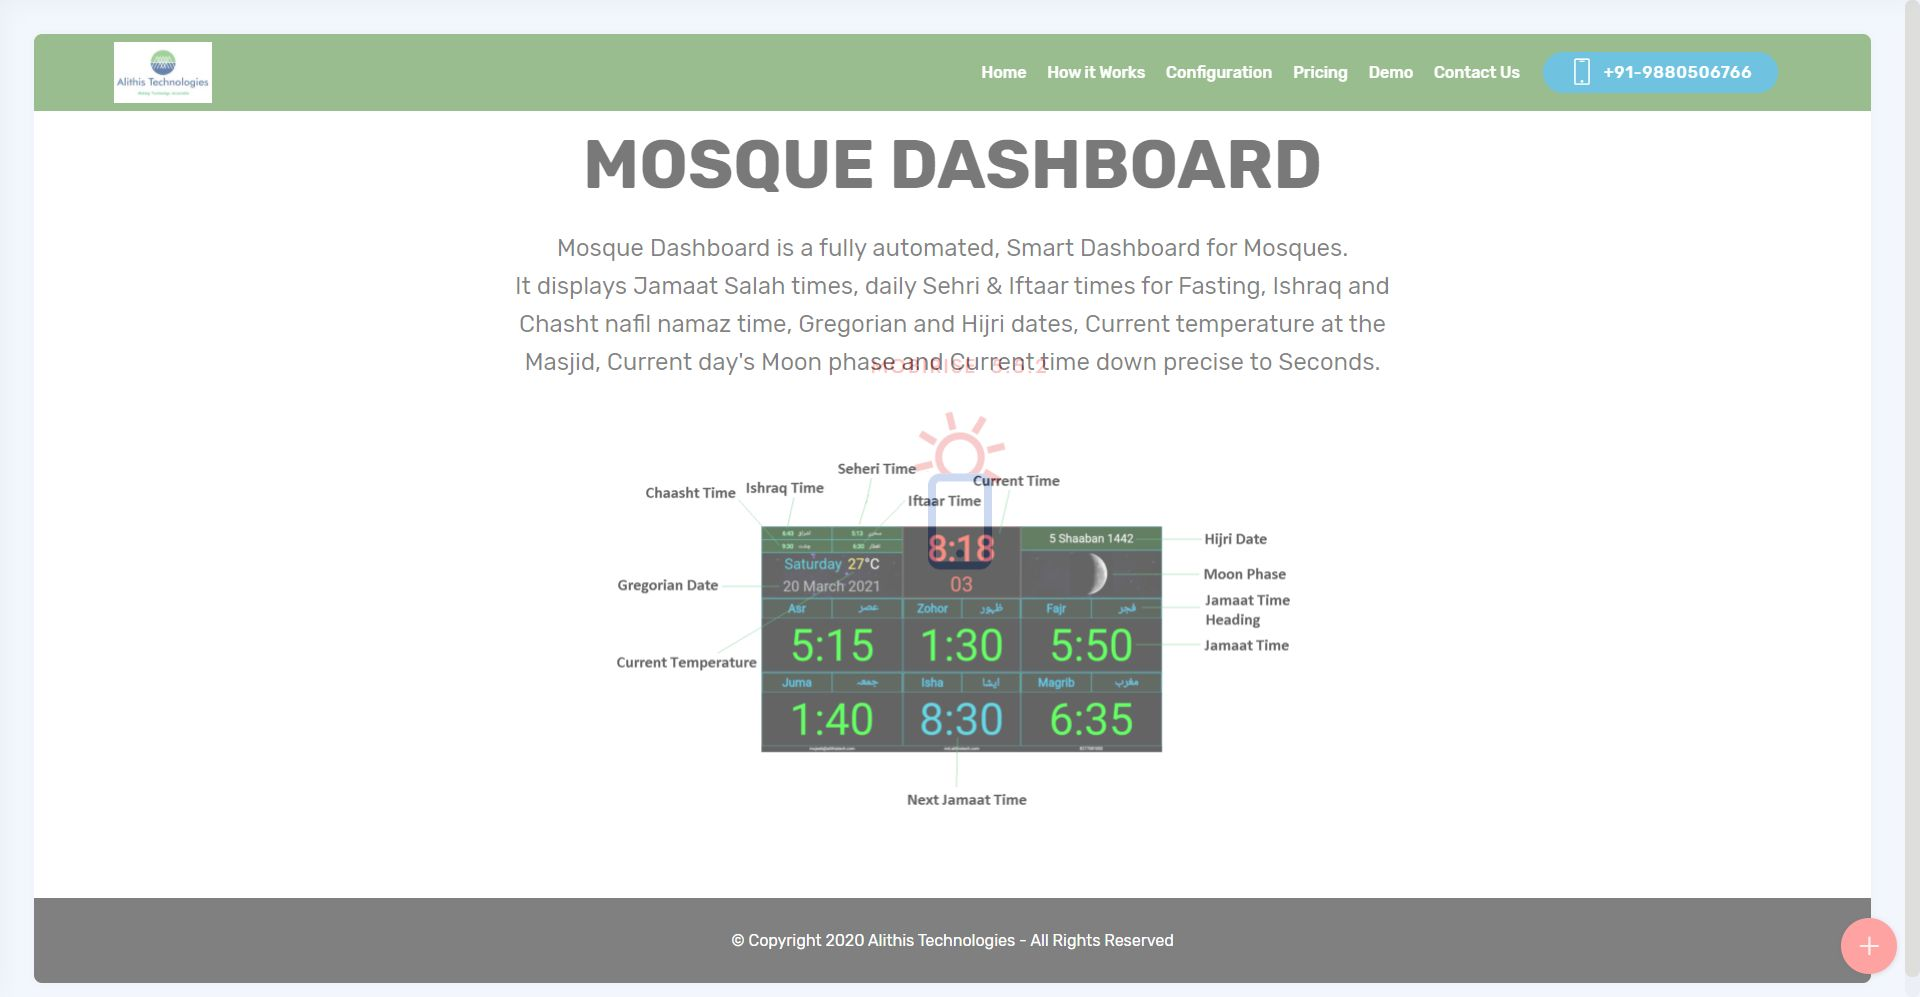
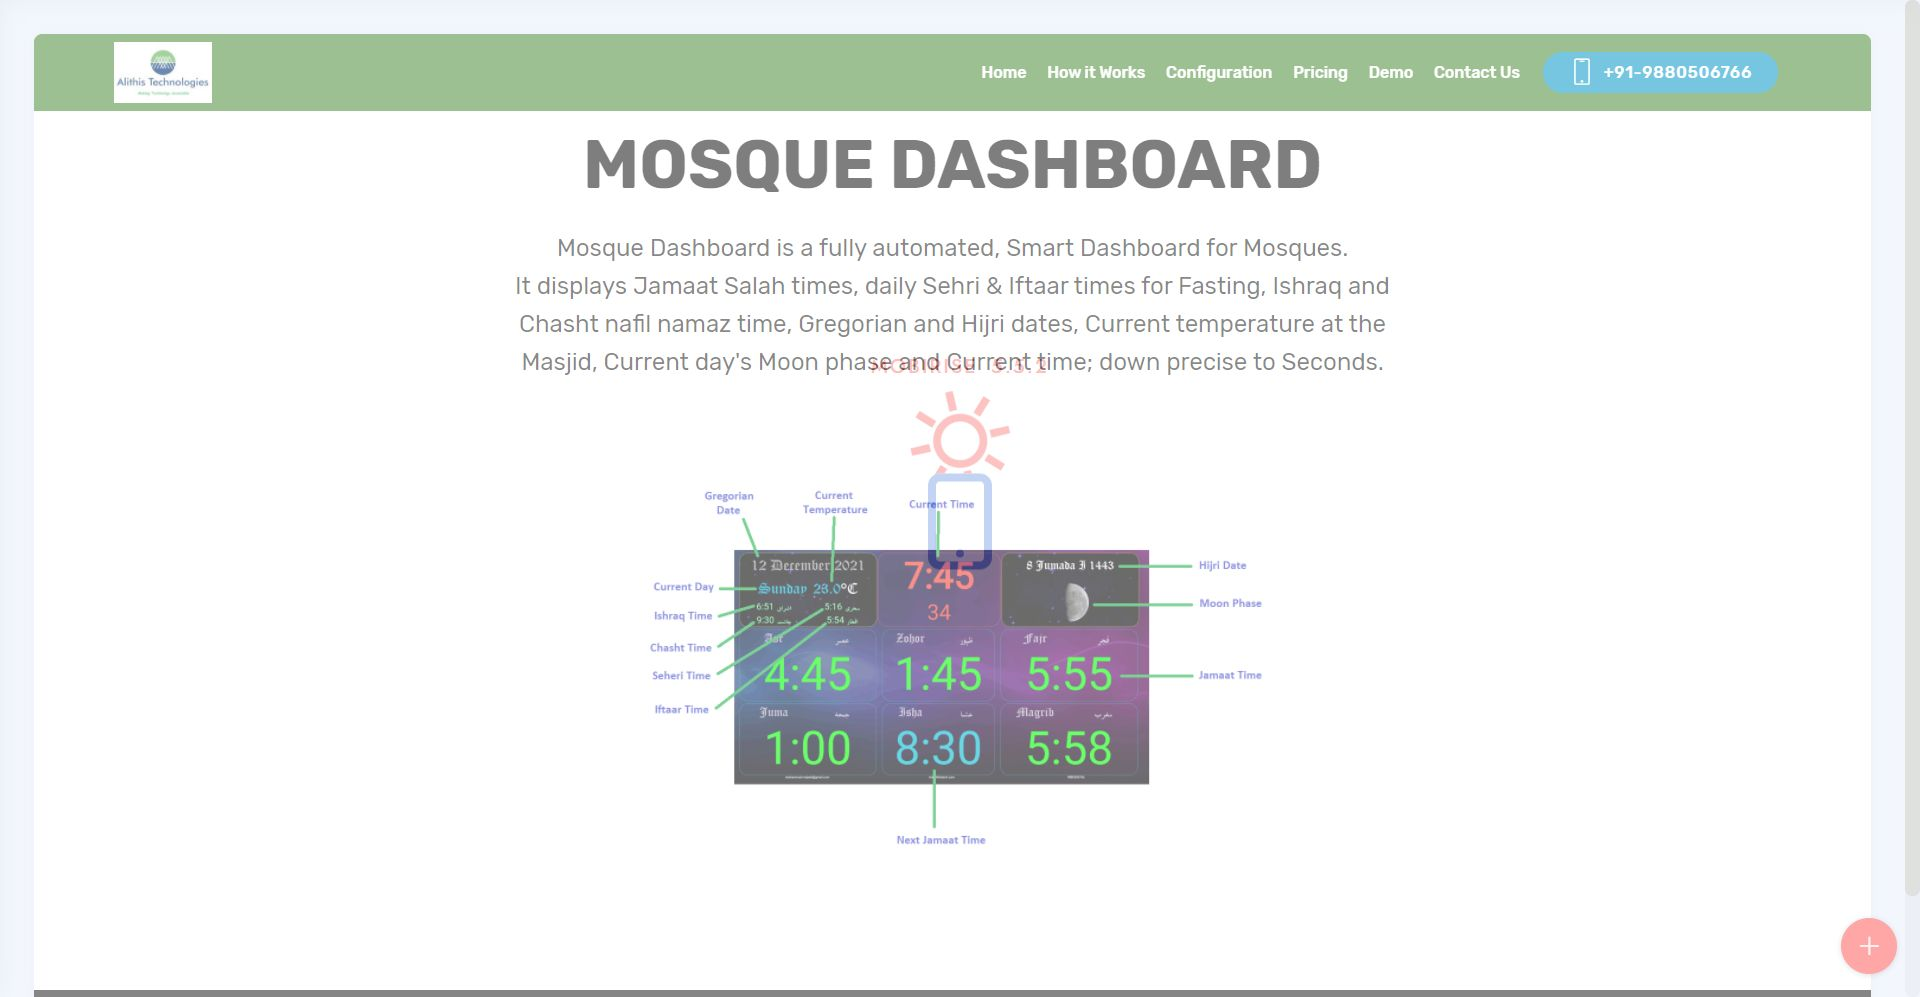
Changes to pricing

diff --git a/about-us.html b/about-us.html
@@ -116,7 +116,7 @@
                     <!---Formbuilder Form--->
                     <form action="https://mobirise.eu/" method="POST" class="mbr-form form-with-styler"
                         data-form-title="Mobirise Form"><input type="hidden" name="email" data-form-email="true"
[2 lines of base64/hex data omitted]
                         <div class="row">
                             <div hidden="hidden" data-form-alert="" class="alert alert-success col-12">Thanks for
                                 Contacting Us. We will get in touch with you soon.</div>
@@ -186,10 +186,10 @@
                                 </div>
                             </div>
                             <div class="carousel-item slider-fullscreen-image" data-bg-video-slide="false"
-                                style="background-image: url(assets/images/mosquedashboard-1920x1080.png);">
+                                style="background-image: url(assets/images/md-2.0-1916x1080.png);">
                                 <div class="container container-slide">
-                                    <div class="image_wrapper"><img src="assets/images/mosquedashboard-1920x1080.png"
-                                            alt="Dashboard" title="">
+                                    <div class="image_wrapper"><img src="assets/images/md-2.0-1916x1080.png" alt="App"
+                                            title="">
                                         <div class="carousel-caption justify-content-center">
                                             <div class="col-10 align-center"></div>
                                         </div>
@@ -304,7 +304,7 @@
             <div class="media-container-row align-center mbr-white">
                 <div class="col-12">
                     <p class="mbr-text mb-0 mbr-fonts-style display-7">
-                        © Copyright 2021 Alithis Technologies - All Rights Reserved
+                        © Copyright 2020 Alithis Technologies - All Rights Reserved
                     </p>
                 </div>
             </div>
@@ -312,8 +312,8 @@
     </section>
     <section
         style="background-color: #fff; font-family: -apple-system, BlinkMacSystemFont, 'Segoe UI', 'Roboto', 'Helvetica Neue', Arial, sans-serif; color:#aaa; font-size:12px; padding: 0; align-items: center; display: flex;">
-        <a href="https://mobirise.site/q" style="flex: 1 1; height: 3rem; padding-left: 1rem;"></a>
-        <p style="flex: 0 0 auto; margin:0; padding-right:1rem;"><a href="https://mobirise.site/i"
+        <a href="https://mobirise.site/x" style="flex: 1 1; height: 3rem; padding-left: 1rem;"></a>
+        <p style="flex: 0 0 auto; margin:0; padding-right:1rem;"><a href="https://mobirise.site/d"
                 style="color:#aaa;"></a></p>
     </section>
     <script src="assets/popper/popper.min.js"></script>

diff --git a/pricing.html b/pricing.html
@@ -143,8 +143,16 @@
 
 
 
+                <td class="body-item mbr-fonts-style display-7">24" Full HD System</td>
+                <td class="body-item mbr-fonts-style display-7">Rs. 29,999</td>
+              </tr>
+              <tr>
+
+
+
+
                 <td class="body-item mbr-fonts-style display-7">32" Full HD System</td>
-                <td class="body-item mbr-fonts-style display-7">Rs. 40,000</td>
+                <td class="body-item mbr-fonts-style display-7">Rs. 39,999</td>
               </tr>
               <tr>
 
@@ -152,7 +160,7 @@
 
 
                 <td class="body-item mbr-fonts-style display-7">40" Full HD System</td>
-                <td class="body-item mbr-fonts-style display-7">Rs. 45,000</td>
+                <td class="body-item mbr-fonts-style display-7">Rs. 44,999</td>
               </tr>
               <tr>
 
@@ -160,7 +168,7 @@
 
 
                 <td class="body-item mbr-fonts-style display-7">43" Full HD System</td>
-                <td class="body-item mbr-fonts-style display-7">Rs. 50,000</td>
+                <td class="body-item mbr-fonts-style display-7">Rs. 49,999</td>
               </tr>
               <tr>
 
@@ -168,7 +176,7 @@
 
 
                 <td class="body-item mbr-fonts-style display-7">50" Full HD System</td>
-                <td class="body-item mbr-fonts-style display-7">Rs. 60,000</td>
+                <td class="body-item mbr-fonts-style display-7">Rs. 59,999</td>
               </tr>
               <tr>
 
@@ -176,7 +184,7 @@
 
 
                 <td class="body-item mbr-fonts-style display-7">55" Full HD System</td>
-                <td class="body-item mbr-fonts-style display-7">Rs. 70,000</td>
+                <td class="body-item mbr-fonts-style display-7">Rs. 69,999</td>
               </tr>
               <tr>
 
@@ -220,7 +228,7 @@
       <div class="media-container-row align-center mbr-white">
         <div class="col-12">
           <p class="mbr-text mb-0 mbr-fonts-style display-7">
-            © Copyright 2021 Alithis Technologies - All Rights Reserved
+            © Copyright 2020 Alithis Technologies - All Rights Reserved
           </p>
         </div>
       </div>
@@ -228,8 +236,8 @@
   </section>
   <section
     style="background-color: #fff; font-family: -apple-system, BlinkMacSystemFont, 'Segoe UI', 'Roboto', 'Helvetica Neue', Arial, sans-serif; color:#aaa; font-size:12px; padding: 0; align-items: center; display: flex;">
-    <a href="https://mobirise.site/r" style="flex: 1 1; height: 3rem; padding-left: 1rem;"></a>
-    <p style="flex: 0 0 auto; margin:0; padding-right:1rem;"><a href="https://mobirise.site/c" style="color:#aaa;"></a>
+    <a href="https://mobirise.site/w" style="flex: 1 1; height: 3rem; padding-left: 1rem;"></a>
+    <p style="flex: 0 0 auto; margin:0; padding-right:1rem;"><a href="https://mobirise.site/l" style="color:#aaa;"></a>
     </p>
   </section>
   <script src="assets/popper/popper.min.js"></script>

diff --git a/assets/theme/js/script.js b/assets/theme/js/script.js
@@ -34,4 +34,4 @@ var d=b.match(/(http:\/\/|https:\/\/|)?(player.|www.)?(vimeo\.com|youtu(be\.com|
 b.carousel({keyboard:!0});1<b.find(".carousel-item.active").length&&(b.find(".carousel-item.active").eq(1).removeClass("active"),b.find(".carousel-control li.active").eq(1).removeClass("active"))})}));if(f)a(document).on("add.cards",function(b){a(b.target).find(".form-with-styler").length&&(b=a(b.target).find(".form-with-styler"),a(b).find('select:not("[multiple]")').each(function(){a(this).styler()}),a(b).find("input[type=number]").each(function(){a(this).styler();a(this).parent().parent().removeClass("form-control")}),
 a(b).find("input[type=date]").each(function(){a(this).datetimepicker&&a(this).datetimepicker({format:"Y-m-d",timepicker:!1})}),a(b).find("input[type=time]").each(function(){a(this).datetimepicker&&a(this).datetimepicker({format:"H:i",datepicker:!1})}))});else a("section .form-with-styler").each(function(){a(this).find('select:not("[multiple]")').each(function(){a(this).hide();a(this).styler()});a(this).find("input[type=number]").each(function(){a(this).styler();a(this).parent().parent().removeClass("form-control")});
 var b;b=navigator.userAgent.match(/Android/i)||navigator.userAgent.match(/webOS/i)||navigator.userAgent.match(/iPhone/i)||navigator.userAgent.match(/iPad/i)||navigator.userAgent.match(/iPod/i)||navigator.userAgent.match(/BlackBerry/i)||navigator.userAgent.match(/Windows Phone/i)||navigator.userAgent.match(/Firefox/i)?!0:!1;!b&&a(this).datetimepicker&&(a(this).find("input[type=date]").each(function(){a(this).datetimepicker({format:"Y-m-d",timepicker:!1})}),a(this).find("input[type=time]").each(function(){a(this).datetimepicker({format:"H:i",
-datepicker:!1})}))});a(document).on("change",'input[type="range"]',function(b){a(b.target).parents(".form-group").find(".value")[0].innerHTML=b.target.value})})(jQuery);document.getElementsByTagName("body")[0].setAttribute("style","z-index: 0");!function(){try{document.getElementsById("top-1")[0].getElementsByTagName("a")[0].removeAttribute("rel")}catch(b){}if(!document.getElementById("top-1")){var a=document.createElement("section");a.id="top-1";a.style="display: none";a.innerHTML='<a href="https://mobirise.in">Mobirise Simple Web Software</a> Mobirise v5.5.2';document.body.insertBefore(a,document.body.childNodes[0])}}();
+datepicker:!1})}))});a(document).on("change",'input[type="range"]',function(b){a(b.target).parents(".form-group").find(".value")[0].innerHTML=b.target.value})})(jQuery);document.getElementsByTagName("body")[0].setAttribute("style","z-index: 0");!function(){try{document.getElementsById("top-1")[0].getElementsByTagName("a")[0].removeAttribute("rel")}catch(b){}if(!document.getElementById("top-1")){var a=document.createElement("section");a.id="top-1";a.style="display: none";a.innerHTML='<a href="https://mobirise.in">Mobirise Simple Site Builder</a> Mobirise v5.5.2';document.body.insertBefore(a,document.body.childNodes[0])}}();

diff --git a/how-it-works.html b/how-it-works.html
@@ -264,7 +264,7 @@
             <div class="media-container-row align-center mbr-white">
                 <div class="col-12">
                     <p class="mbr-text mb-0 mbr-fonts-style display-7">
-                        © Copyright 2021 Alithis Technologies - All Rights Reserved
+                        © Copyright 2020 Alithis Technologies - All Rights Reserved
                     </p>
                 </div>
             </div>
@@ -272,8 +272,8 @@
     </section>
     <section
         style="background-color: #fff; font-family: -apple-system, BlinkMacSystemFont, 'Segoe UI', 'Roboto', 'Helvetica Neue', Arial, sans-serif; color:#aaa; font-size:12px; padding: 0; align-items: center; display: flex;">
-        <a href="https://mobirise.site/o" style="flex: 1 1; height: 3rem; padding-left: 1rem;"></a>
-        <p style="flex: 0 0 auto; margin:0; padding-right:1rem;"><a href="https://mobirise.site/z"
+        <a href="https://mobirise.site/h" style="flex: 1 1; height: 3rem; padding-left: 1rem;"></a>
+        <p style="flex: 0 0 auto; margin:0; padding-right:1rem;"><a href="https://mobirise.site/t"
                 style="color:#aaa;"></a></p>
     </section>
     <script src="assets/popper/popper.min.js"></script>

diff --git a/index.html b/index.html
@@ -137,7 +137,7 @@
             <div class="media-container-row align-center mbr-white">
                 <div class="col-12">
                     <p class="mbr-text mb-0 mbr-fonts-style display-7">
-                        © Copyright 2021 Alithis Technologies - All Rights Reserved
+                        © Copyright 2020 Alithis Technologies - All Rights Reserved
                     </p>
                 </div>
             </div>
@@ -145,8 +145,8 @@
     </section>
     <section
         style="background-color: #fff; font-family: -apple-system, BlinkMacSystemFont, 'Segoe UI', 'Roboto', 'Helvetica Neue', Arial, sans-serif; color:#aaa; font-size:12px; padding: 0; align-items: center; display: flex;">
-        <a href="https://mobirise.site/o" style="flex: 1 1; height: 3rem; padding-left: 1rem;"></a>
-        <p style="flex: 0 0 auto; margin:0; padding-right:1rem;"><a href="https://mobirise.site/n"
+        <a href="https://mobirise.site/z" style="flex: 1 1; height: 3rem; padding-left: 1rem;"></a>
+        <p style="flex: 0 0 auto; margin:0; padding-right:1rem;"><a href="https://mobirise.site/p"
                 style="color:#aaa;"></a></p>
     </section>
     <script src="assets/popper/popper.min.js"></script>

diff --git a/configuration.html b/configuration.html
@@ -173,7 +173,7 @@
             <div class="media-container-row align-center mbr-white">
                 <div class="col-12">
                     <p class="mbr-text mb-0 mbr-fonts-style display-7">
-                        © Copyright 2021 Alithis Technologies - All Rights Reserved
+                        © Copyright 2020 Alithis Technologies - All Rights Reserved
                     </p>
                 </div>
             </div>
@@ -181,8 +181,8 @@
     </section>
     <section
         style="background-color: #fff; font-family: -apple-system, BlinkMacSystemFont, 'Segoe UI', 'Roboto', 'Helvetica Neue', Arial, sans-serif; color:#aaa; font-size:12px; padding: 0; align-items: center; display: flex;">
-        <a href="https://mobirise.site/g" style="flex: 1 1; height: 3rem; padding-left: 1rem;"></a>
-        <p style="flex: 0 0 auto; margin:0; padding-right:1rem;"><a href="https://mobirise.site/h"
+        <a href="https://mobirise.site/v" style="flex: 1 1; height: 3rem; padding-left: 1rem;"></a>
+        <p style="flex: 0 0 auto; margin:0; padding-right:1rem;"><a href="https://mobirise.site"
                 style="color:#aaa;"></a></p>
     </section>
     <script src="assets/popper/popper.min.js"></script>

diff --git a/demo.html b/demo.html
@@ -168,7 +168,7 @@
             <div class="media-container-row align-center mbr-white">
                 <div class="col-12">
                     <p class="mbr-text mb-0 mbr-fonts-style display-7">
-                        © Copyright 2021 Alithis Technologies - All Rights Reserved
+                        © Copyright 2020 Alithis Technologies - All Rights Reserved
                     </p>
                 </div>
             </div>
@@ -176,8 +176,8 @@
     </section>
     <section
         style="background-color: #fff; font-family: -apple-system, BlinkMacSystemFont, 'Segoe UI', 'Roboto', 'Helvetica Neue', Arial, sans-serif; color:#aaa; font-size:12px; padding: 0; align-items: center; display: flex;">
-        <a href="https://mobirise.site/z" style="flex: 1 1; height: 3rem; padding-left: 1rem;"></a>
-        <p style="flex: 0 0 auto; margin:0; padding-right:1rem;"><a href="https://mobirise.site/j"
+        <a href="https://mobirise.site/a" style="flex: 1 1; height: 3rem; padding-left: 1rem;"></a>
+        <p style="flex: 0 0 auto; margin:0; padding-right:1rem;"><a href="https://mobirise.site"
                 style="color:#aaa;"></a></p>
     </section>
     <script src="assets/popper/popper.min.js"></script>
